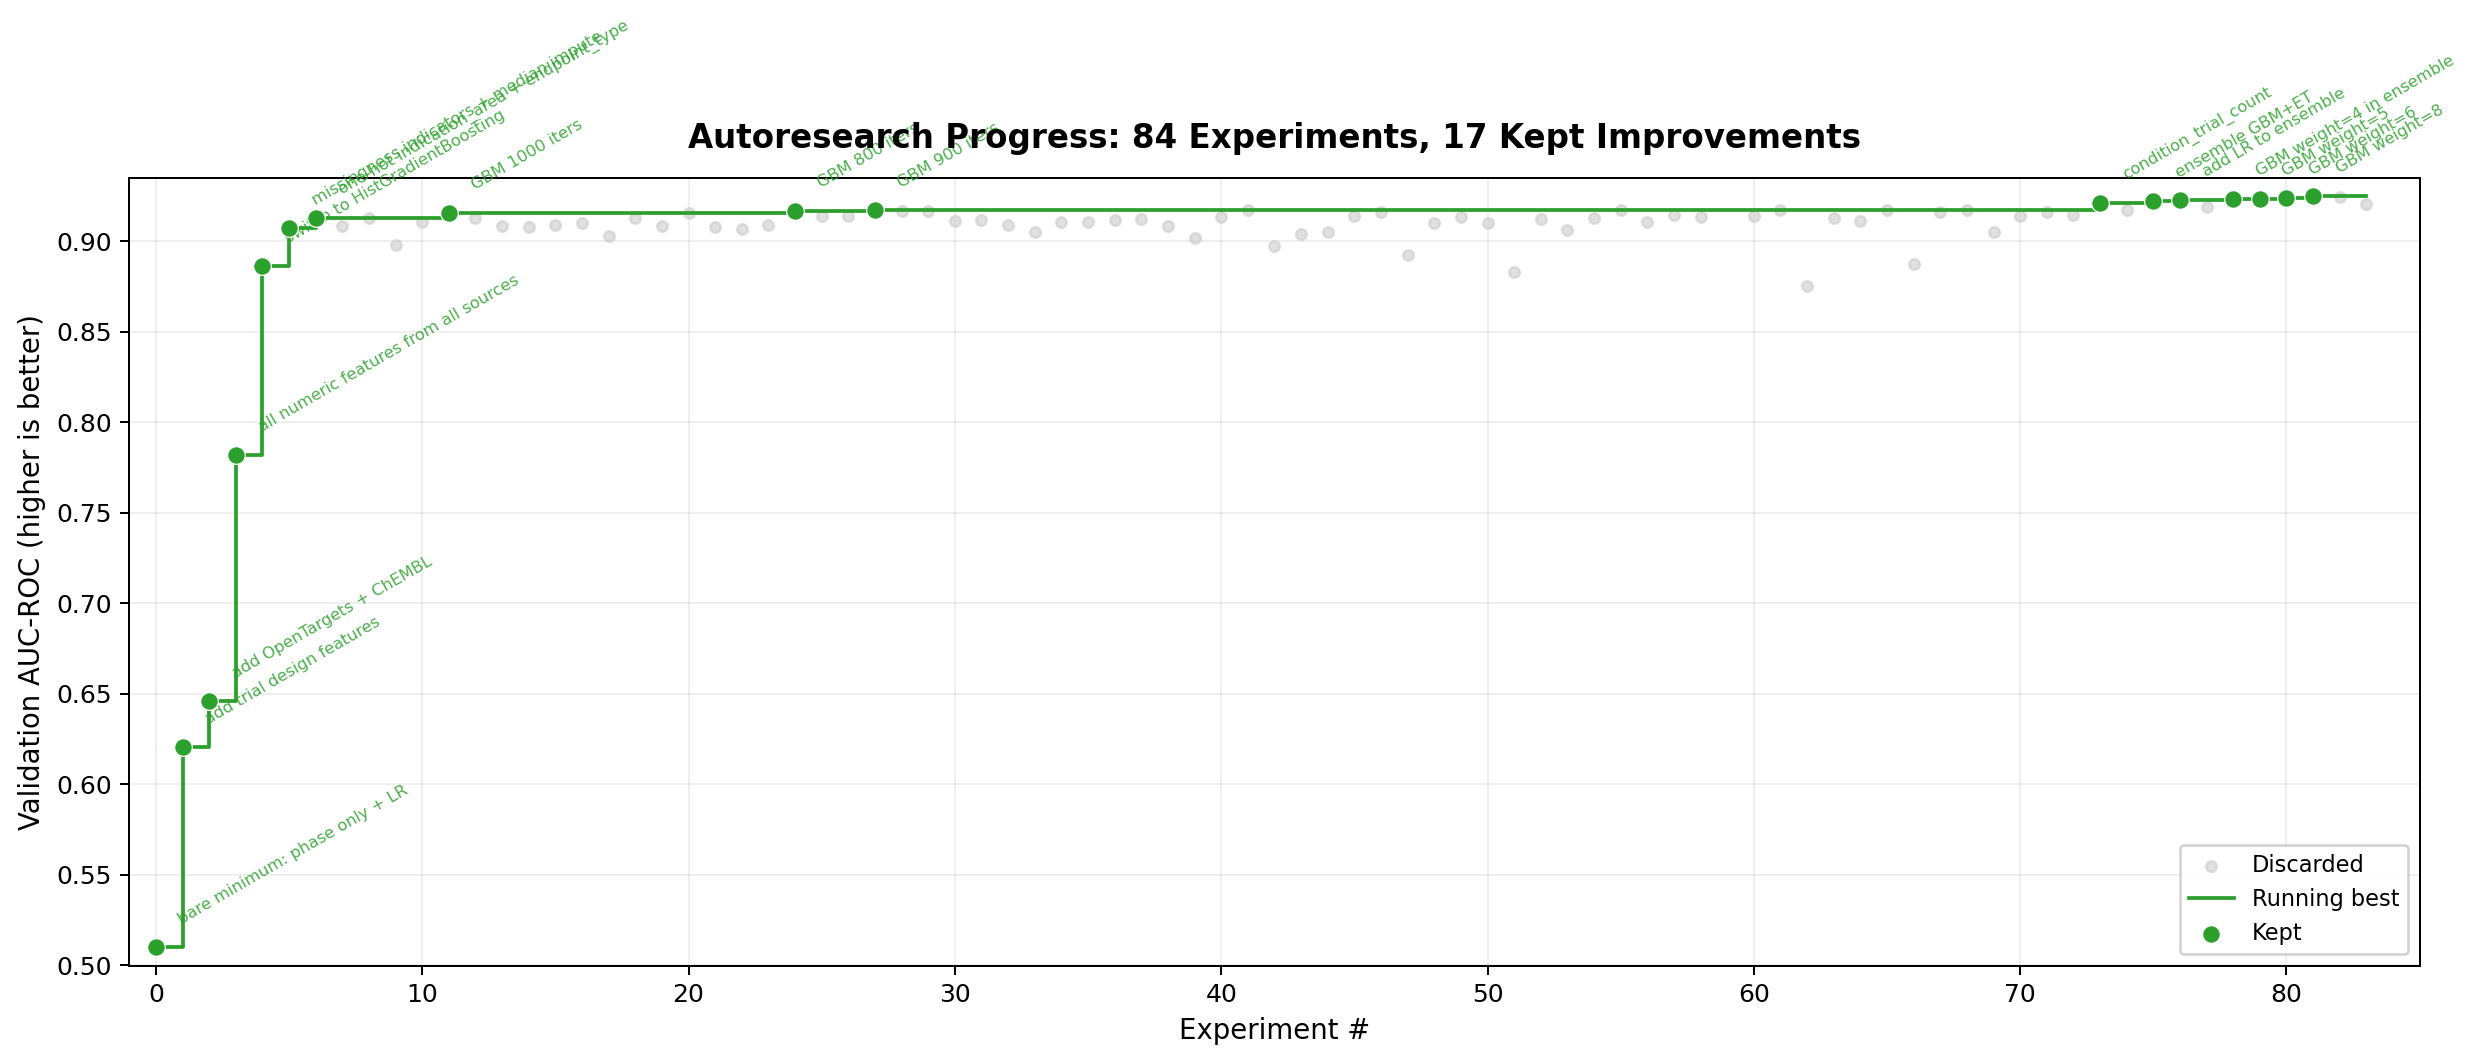
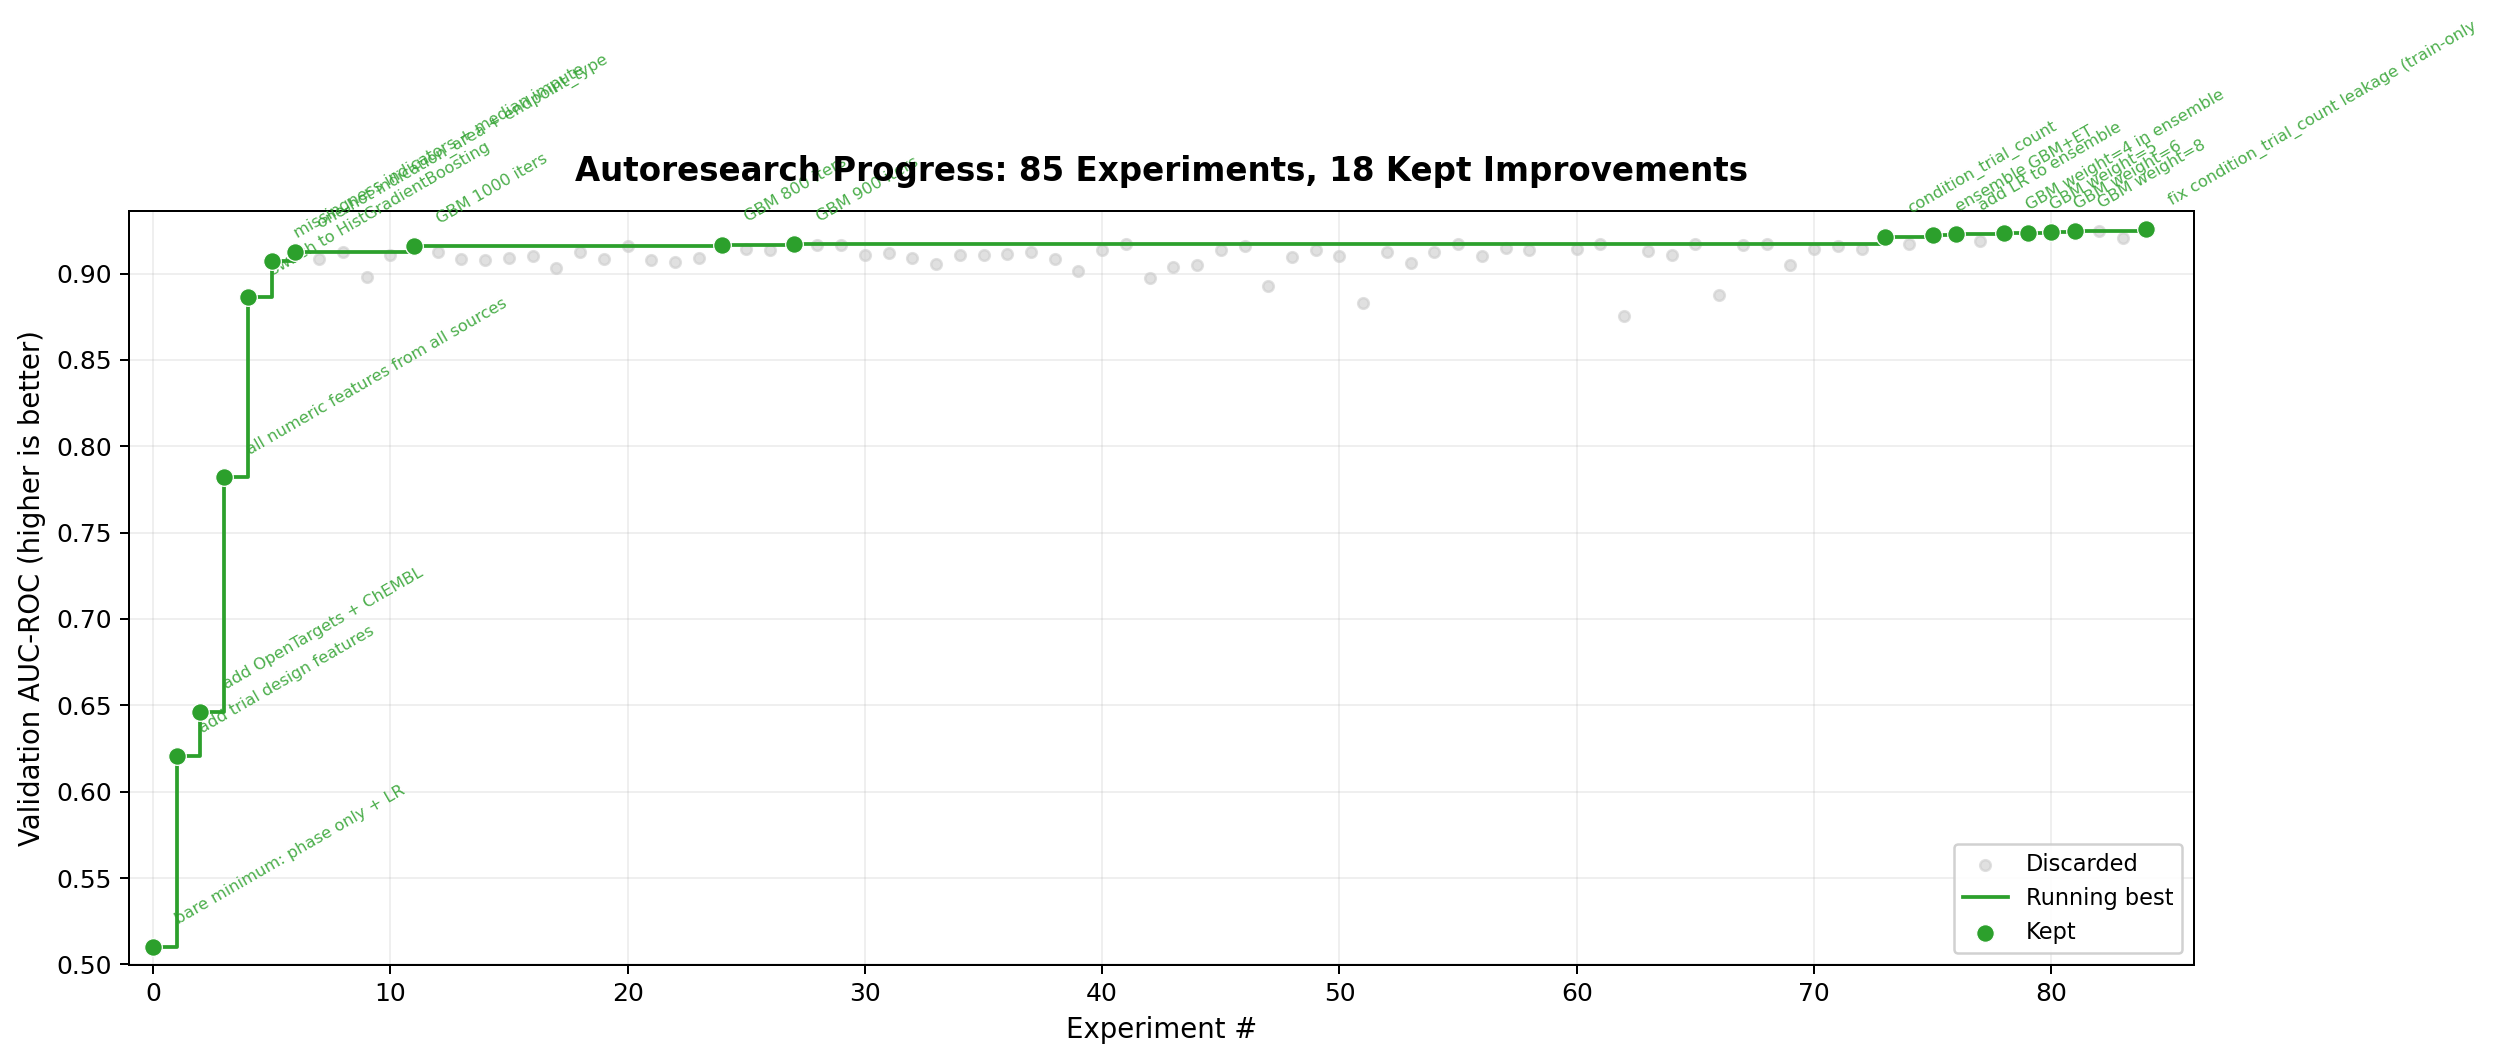
fix condition_trial_count leakage: compute from train only (AUC 0.925 → 0.926)

diff --git a/train.py b/train.py
@@ -32,9 +32,10 @@ MODEL_PATH = Path(__file__).parent / "model.pkl"
 # Feature engineering — MODIFY THIS
 # ---------------------------------------------------------------------------
 
-def build_features(df: pd.DataFrame) -> tuple[pd.DataFrame, pd.Series]:
+def build_features(df: pd.DataFrame, train_mask=None) -> tuple[pd.DataFrame, pd.Series]:
     """
     Build feature matrix X and label vector y from raw trial data.
+    train_mask: boolean Series indicating training rows (used to avoid leakage).
     """
     y = df["label"].astype(int)
 
@@ -121,10 +122,13 @@ def build_features(df: pd.DataFrame) -> tuple[pd.DataFrame, pd.Series]:
         for val in df["endpoint_type"].dropna().unique():
             X[f"endpoint_{val}"] = (df["endpoint_type"] == val).astype(int)
 
-    # Condition frequency (well-studied vs rare)
+    # Condition frequency (computed from training data only to avoid leakage)
     if "condition" in df.columns:
-        freq = df["condition"].value_counts()
-        X["condition_trial_count"] = df["condition"].map(freq).fillna(1)
+        if train_mask is not None:
+            freq = df.loc[train_mask, "condition"].value_counts()
+        else:
+            freq = df["condition"].value_counts()
+        X["condition_trial_count"] = df["condition"].map(freq).fillna(0)
 
     return X, y
 
@@ -153,11 +157,7 @@ def main():
     # Load data
     df = pd.read_csv(DATA_DIR / "trials.csv")
 
-    # Build features
-    X, y = build_features(df)
-    feature_names = list(X.columns)
-
-    # Train/val split
+    # Train/val split (compute mask first so build_features can use it)
     val_ids_path = DATA_DIR / "val_ids.json"
     if val_ids_path.exists():
         with open(val_ids_path) as f:
@@ -165,6 +165,10 @@ def main():
         train_mask = ~df["nct_id"].isin(val_ids)
     else:
         train_mask = pd.Series([True] * len(df))
+
+    # Build features (pass train_mask to avoid leakage)
+    X, y = build_features(df, train_mask=train_mask)
+    feature_names = list(X.columns)
 
     X_train = X[train_mask].copy()
     y_train = y[train_mask].copy()

diff --git a/README.md b/README.md
@@ -6,7 +6,7 @@ Uses the [autoresearch](https://github.com/karpathy/autoresearch) pattern — an
 
 ## Results
 
-Starting from a single feature (phase) and logistic regression (**AUC-ROC 0.51**), the agent ran 84 experiments and reached **AUC-ROC 0.925** on a held-out validation set — 17 improvements kept, 66 discarded, 1 crash.
+Starting from a single feature (phase) and logistic regression (**AUC-ROC 0.51**), the agent ran 85 experiments and reached **AUC-ROC 0.926** on a held-out validation set — 18 improvements kept, 66 discarded, 1 crash.
 
 ![Autoresearch Progress](progress.png)
 
@@ -23,7 +23,8 @@ Starting from a single feature (phase) and logistic regression (**AUC-ROC 0.51**
 | 6 | 0.913 | One-hot encode indication area + endpoint type |
 | 27 | 0.917 | Tune GBM iterations (900) |
 | 73 | 0.921 | Add `condition_trial_count` feature |
-| 75-81 | **0.925** | Ensemble (GBM + ExtraTrees + LR), tune weights |
+| 75-81 | 0.925 | Ensemble (GBM + ExtraTrees + LR), tune weights |
+| 85 | **0.926** | Fix condition_trial_count leakage (train-only) |
 
 ### What worked
 
@@ -106,7 +107,7 @@ ct-predict/
 ├── predict.py         # Predict trials in the dataset
 ├── plot_progress.py   # Generate progress.png from results.tsv
 ├── progress.png       # Autoresearch progress chart
-├── results.tsv        # Full experiment log (84 experiments)
+├── results.tsv        # Full experiment log (85 experiments)
 └── data/
     ├── trials.csv     # 2,151 trials × 125 columns
     └── val_ids.json   # Held-out validation split
